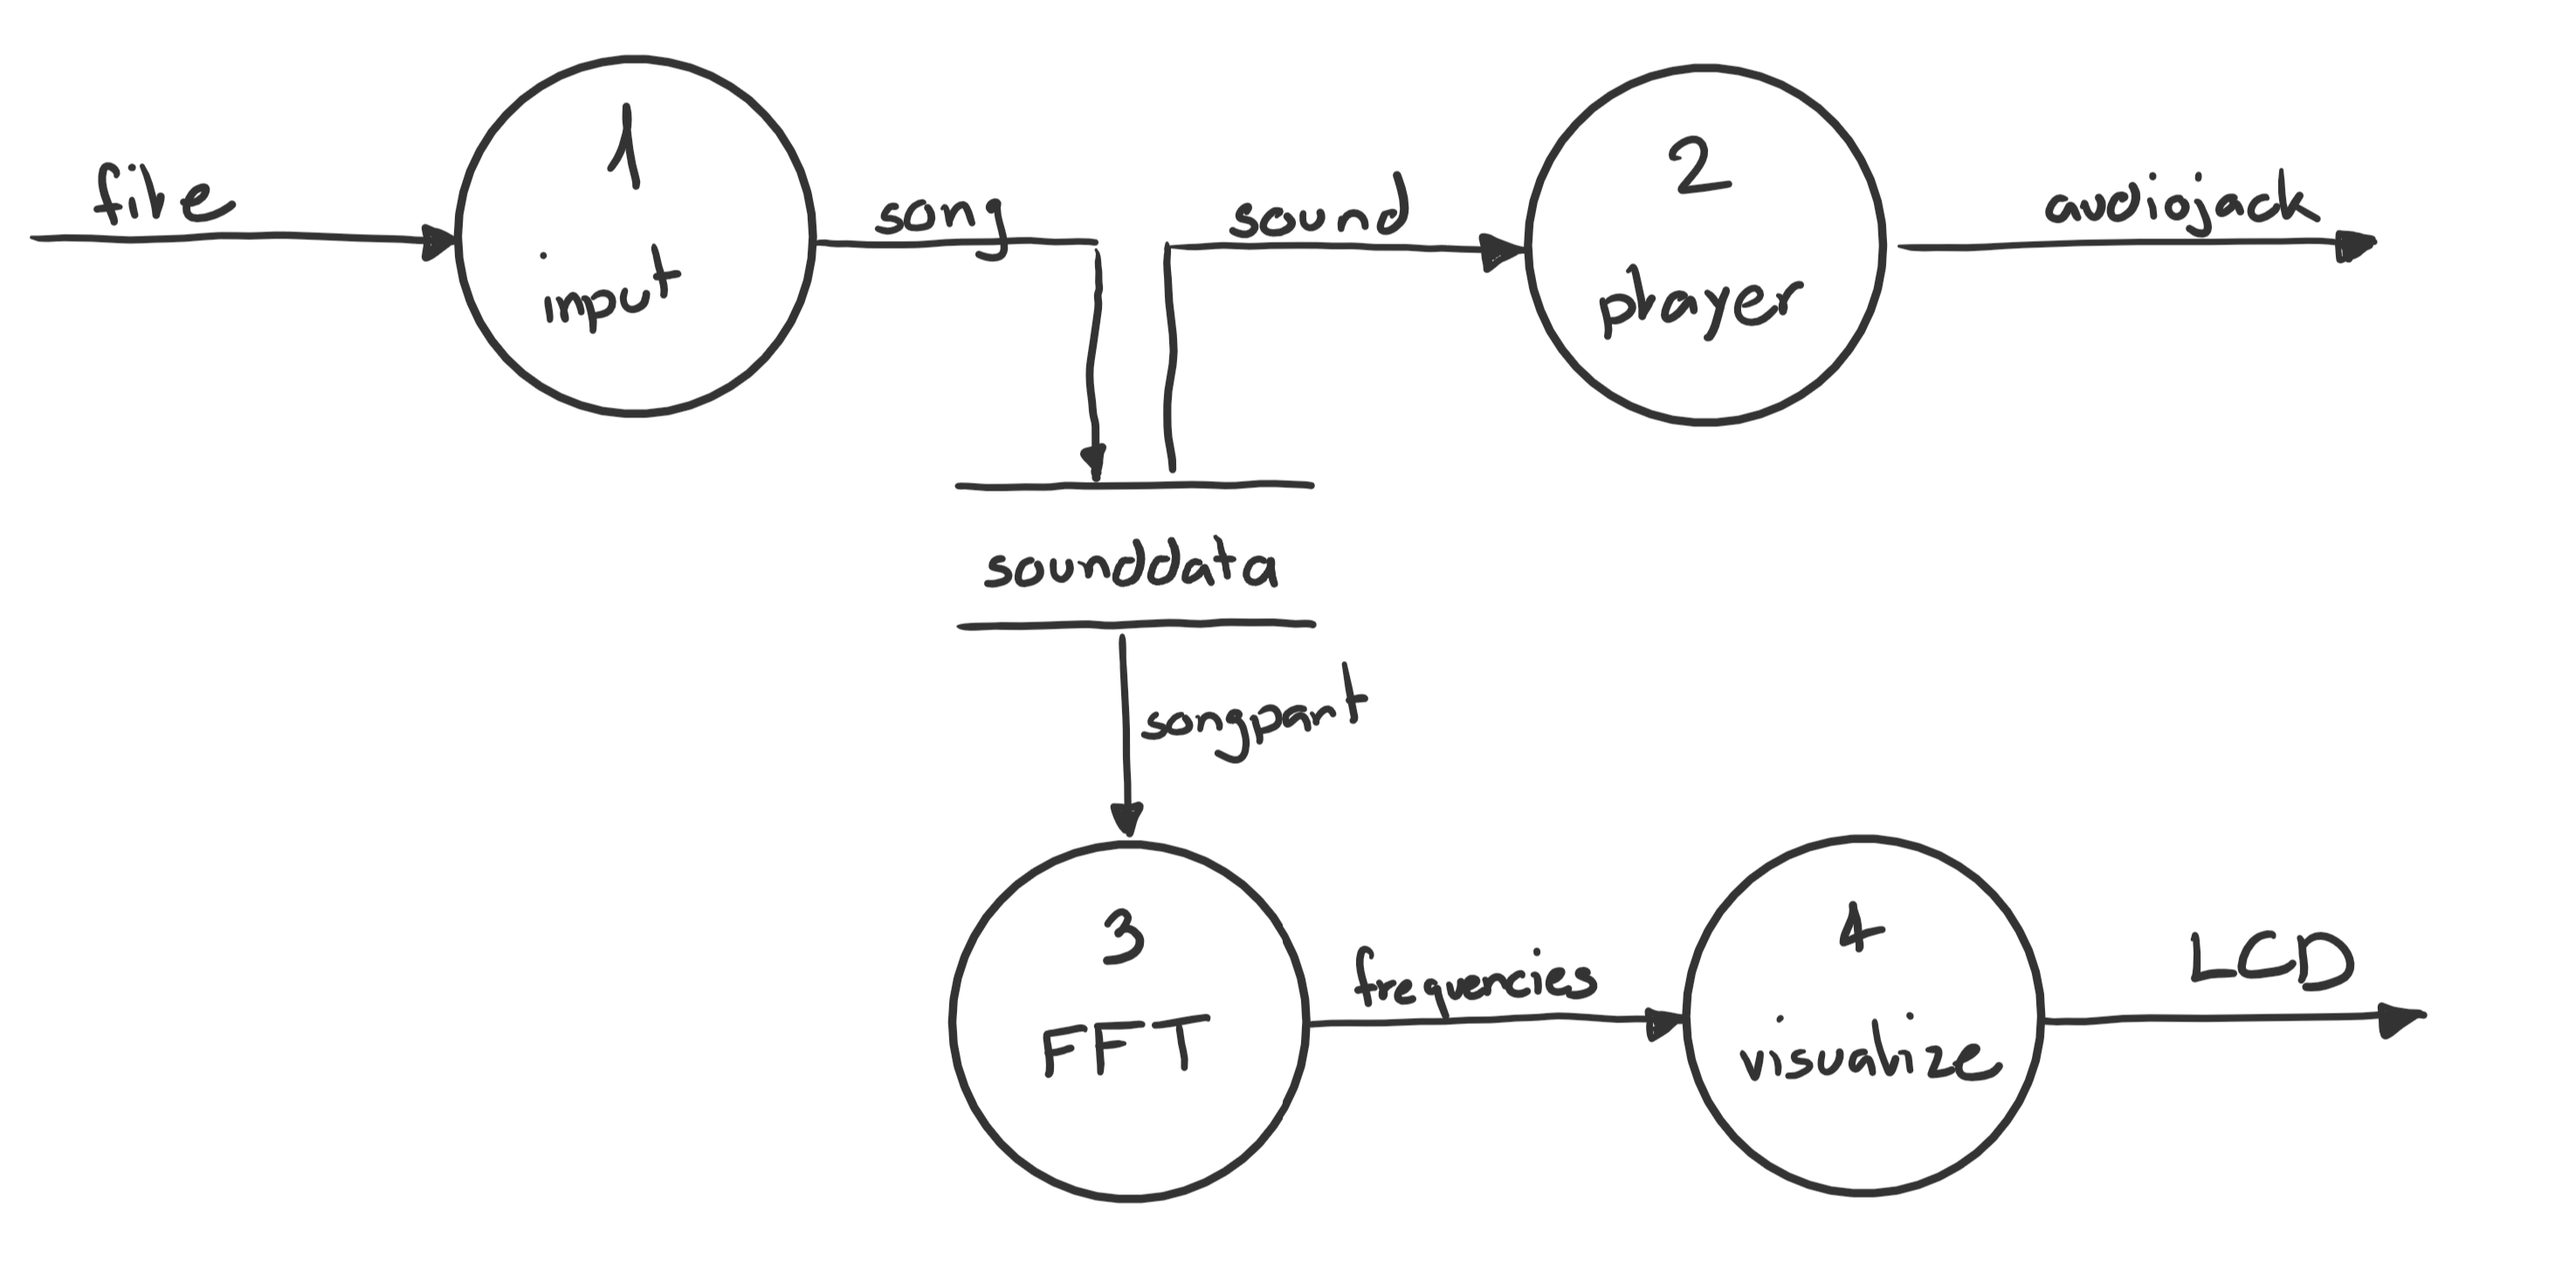
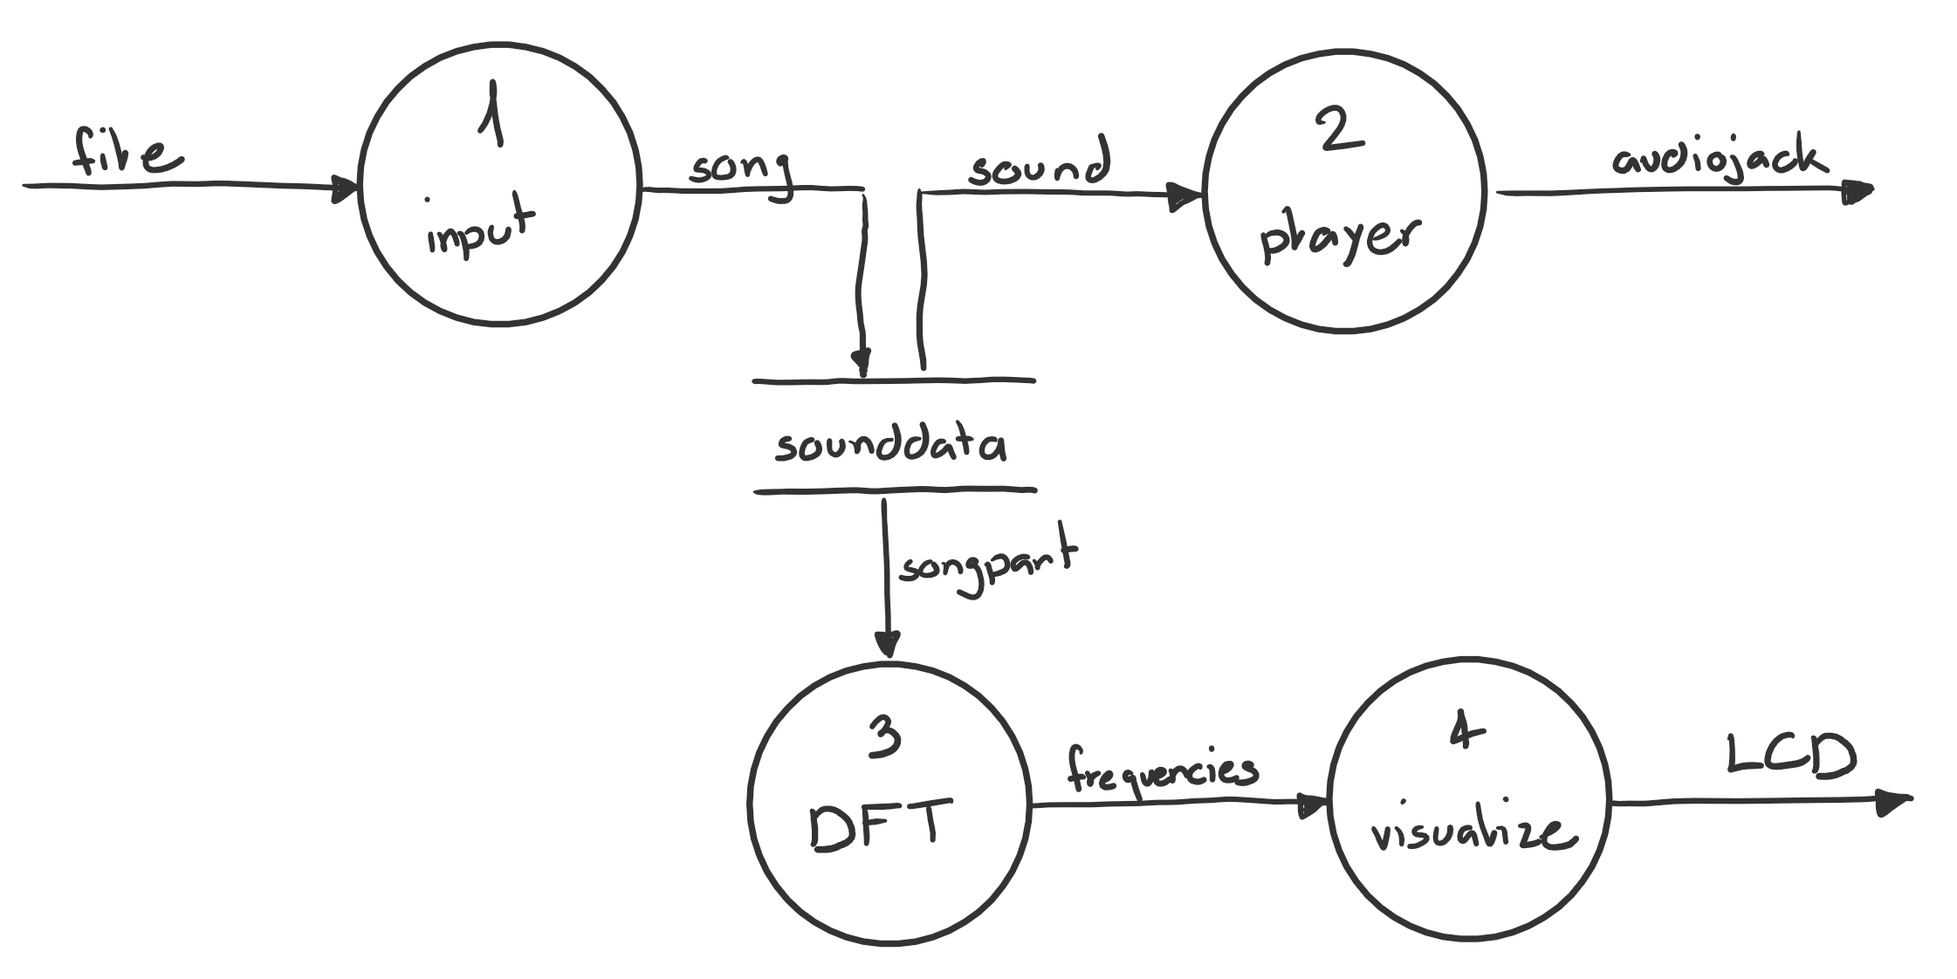
doc: change fft to dft

diff --git a/README.md b/README.md
@@ -1,6 +1,6 @@
 # Speki
 
-Ein Audioplayer mit "Speki" auf dem CARME-M4-Kit unter Zuhilfenahme des Fast Fourier Transform Algorithmus. Erstellt als Projekt für das Modul BTE5053 Hardwarenahe Softwareentwicklung.
+Ein Audioplayer mit "Speki" auf dem CARME-M4-Kit unter Zuhilfenahme der diskreten Fourier Transformation. Erstellt als Projekt für das Modul BTE5053 Hardwarenahe Softwareentwicklung.
 
 ## Dokumentation
 Infos über das `Was?` finden sich im [Pflichtenheft](./doc/Pflichtenheft.md).
@@ -8,20 +8,21 @@ Infos über das `Was?` finden sich im [Pflichtenheft](./doc/Pflichtenheft.md).
 Die Dokumentation lässt sich per Doxygen mit `doxygen doc/Doxyfile` in den Ordner `doc/doxygen/html` generieren.
 Alternativ findet sich das aktuellste Exemplar auf [GitLab-Pages](http://leuen4.pages.ti.bfh.ch/speki).
 
-## Installation und Nutzung
+## Nutzung ohne Windows WSL2
 - `make` - Kompilieren mit [arm-none-eabi-gcc](https://developer.arm.com/tools-and-software/open-source-software/developer-tools/gnu-toolchain/gnu-rm/downloads) Toolchain
 - (optional) `make test` - statische Tests ausführen
 - `/bin/speki.bin` mit [ST-LINK Utility](https://www.st.com/en/development-tools/stsw-link004.html) oder [STM32Cube](https://www.st.com/content/st_com/en/products/development-tools/software-development-tools/stm32-software-development-tools/stm32-programmers/stm32cubeprog.html) auf das CARME-M4-Kit flashen
-- Kopfhörer (HEAD) oder Lautsprecher (LINE) an der entsprechenden Buchse des CARMEs anschliessen
+- Geeignete Songs gemäss [Anleitung](./songs/README.md) erstellen und auf SD-Karte laden
+- Kopfhörer oder Lautsprecher an der HEAD Buchse des CARMEs anschliessen
 - Musik & Speki geniessen!
 
-## WSL2 in windows administrator terminal
-- service starte, wenn nicht läuft:
-    - sc start usbipd
-- usb weiterleiten:
-    - usbipd wsl attach --busid X-Y
-- bus id:
-    - usbipd wsl list
+## Nutzung unter Windows WSL2
+Nach Einrichten des Devcontainers unter WSL2 lässt sich per [usbipd](https://github.com/dorssel/usbipd-win) den USB-Port des physischen STM32-Debugger an WSL2 weiterleiten. Dazu in einem Windows Terminal mit Administratorrechten folgende Befehle verwenden:
+- `usbipd wsl list` - Auflisten aller verfügbaren USB Geräte
+- `usbipd wsl attach --busid <X-Y>` - Weiterleiten des per busid ausgewählten Geräts
+- (optional) `sc start usbipd` - bei Fehlermeldung hiermit den Service starten
+- Das Flashen und das Debugging funktioniert nun direkt aus VSCode heraus: Dazu die vordefinierten Aufgaben `flash` oder `openocd` verwenden.
+- Weiteres Vorgehen wie im vorherigen Abschnitt.
 
 ## Verwandte Projekte
 [carme-template](https://gitlab.ti.bfh.ch/jeken1/carme-template) - Vorlage für STM32CubeIDE unabhängige CARME Projekte.

diff --git a/doc/Pflichtenheft.md b/doc/Pflichtenheft.md
@@ -1,12 +1,12 @@
 # Pflichtenheft «Speki»
-Das funktionale Ziel dieses Projekts ist die Anwendung der im Modul «Mathematik 1» erlernten Fouriertransformation, mit der ein zeitvariantes Signal in ein frequenzvariantes Signal umgewandelt werden kann. Von einem Audiosignal (im geeigneten Dateiformat) soll mit dem FFT Algorithmus (Fast Fourier Transformation) als Spektrum mit Balken dargestellt werden (Spektralbalkendiagramm), fortan Speki genannt.
+Das funktionale Ziel dieses Projekts ist die Anwendung der im Modul «Mathematik 1» erlernten Fouriertransformation, mit der ein zeitvariantes Signal in ein frequenzvariantes Signal umgewandelt werden kann. Von einem Audiosignal (im geeigneten Dateiformat) soll mit dem DFT Algorithmus (diskrete Fourier Transformation) als Spektrum mit Balken dargestellt werden (Spektralbalkendiagramm), fortan Speki genannt.
 
 [<img src="equalizer.jpg" width="50%"/>](equalizer.jpg)
 <p style="font-size:0px">@image latex doc/equalizer.jpg Exemplarisches "Speki"</p>
 
 Dieses Speki soll auf dem LCD des CARME-M4-Kits dargestellt werden. Zusätzlich soll das originale Audiosignal auch auf der Audiobuchse des CARMEs ausgegeben werden. Das CARME fungiert als einfacher Audioplayer.
 
-Als Lernziel des Projekts ist vorgesehen, dass es hardwarenah in der Programmiersprache C entwickelt wird und aber sinnvolle Teile davon in Assembler implementiert werden. Als sinnvoll gelten in diesem Kontext Teile des Programms welche besonders viel Rechenleistung benötigen resp. viel Rechenzeit in Anspruch nehmen. Dies wird vermutlich der FFT-Algorithmus sein.
+Als Lernziel des Projekts ist vorgesehen, dass es hardwarenah in der Programmiersprache C entwickelt wird und aber sinnvolle Teile davon in Assembler implementiert werden. Als sinnvoll gelten in diesem Kontext Teile des Programms welche besonders viel Rechenleistung benötigen resp. viel Rechenzeit in Anspruch nehmen. Dies wird vermutlich der DFT-Algorithmus sein.
 
 ## Zusätze
 Als Zusatz könnten folgende Ideen noch umgesetzt werden:

diff --git a/doc/DFD/DFD.md b/doc/DFD/DFD.md
@@ -11,5 +11,5 @@ Dieses DFD beschreibt die Quellen und Senken von Daten, Datenflüsse sowie die d
 <p style="font-size:0px">@image latex doc/DFD/dfd-level-0.png Level 0</p>
 
 ## FFT
-[<img src="dfd-fft-3.png" width="50%"/>](dfd-fft-3.png)
-<p style="font-size:0px">@image latex doc/DFD/dfd-fft-3.png FFT-3</p>
+[<img src="dfd-dft-3.png" width="50%"/>](dfd-dft-3.png)
+<p style="font-size:0px">@image latex doc/DFD/dfd-dft-3.png FFT-3</p>
